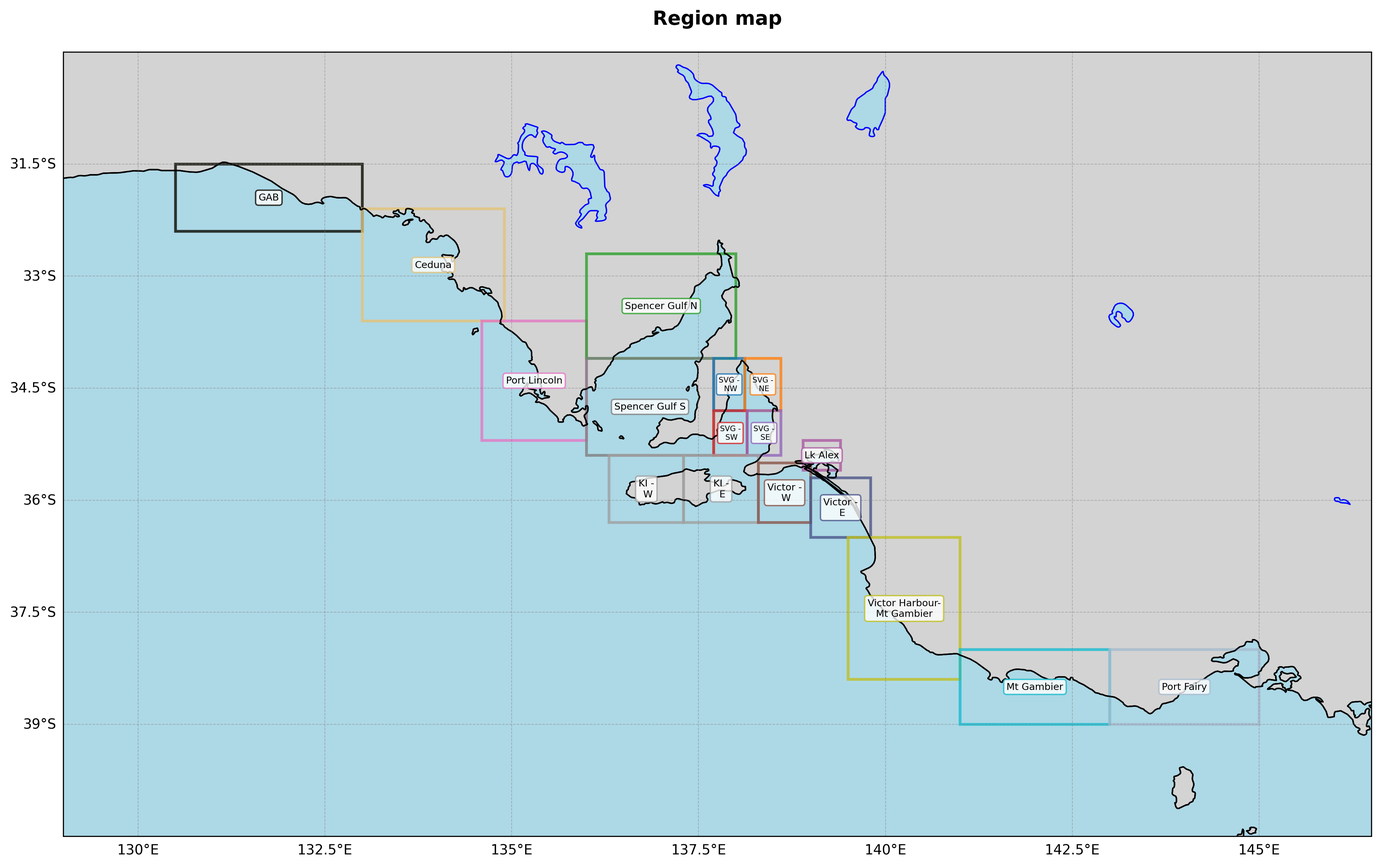
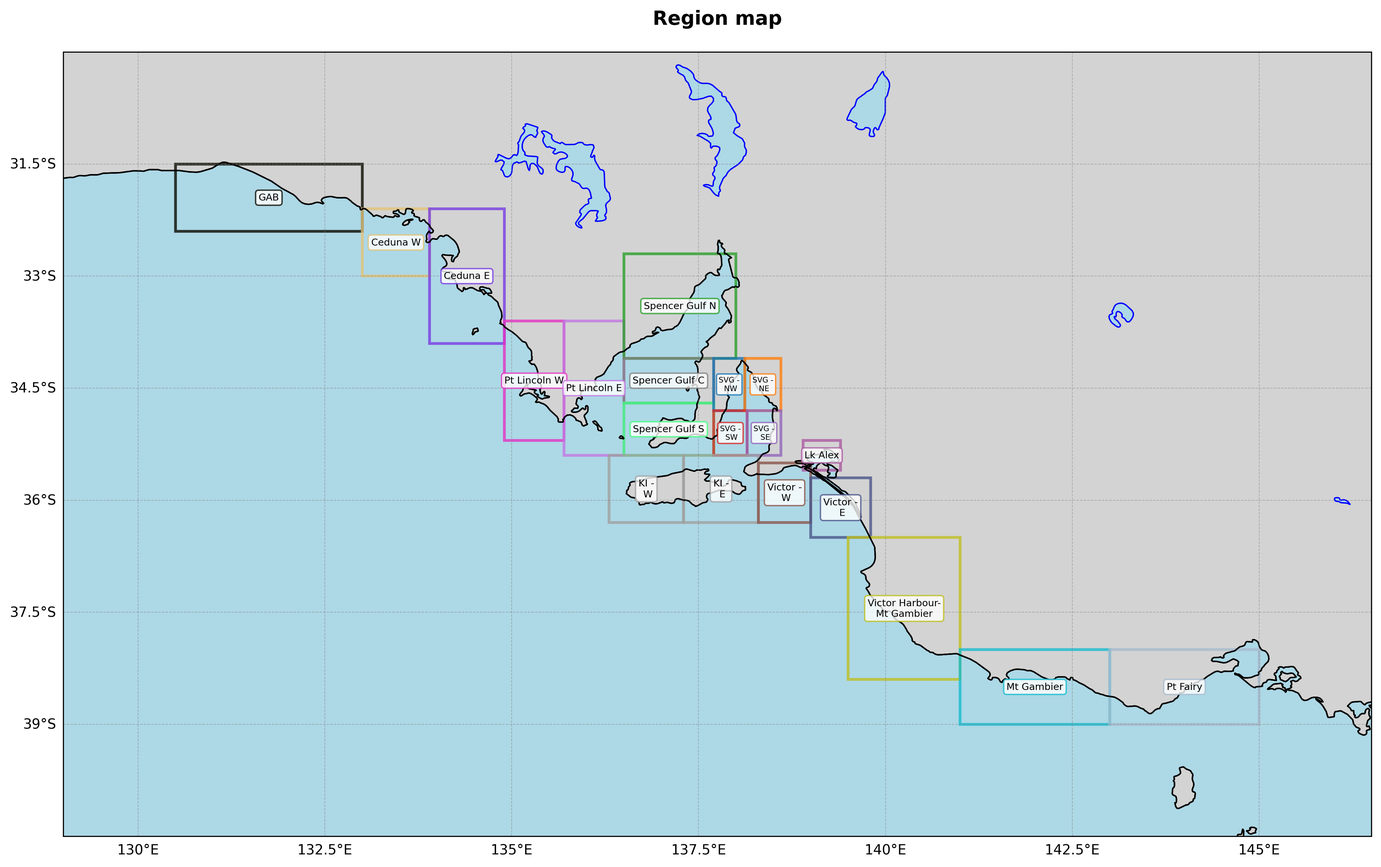
regenerated for new region boundaries

Changed region(s): [[0.2494, 0.2473, 0.53, 0.5256], [0.8417, 0.7729, 0.8729, 0.8038], [0.3118, 0.2164, 0.3429, 0.2473]]

diff --git a/viirs/viirs_plot.py b/viirs/viirs_plot.py
@@ -84,8 +84,7 @@ def normalize_series(series, method='minmax'):
     else:
         raise ValueError("Method must be 'minmax', 'zscore', or 'robust'")
 
-def create_plot(df, col, normalization_method='minmax', figsize=(16, 10),
-                fill_gaps=True, max_gap_days=10):
+def create_plot(df, col, max_gap_days, normalization_method='minmax', figsize=(16, 10), fill_gaps=True):
     """Create enhanced multi-axis plot with gap filling and actual value axes."""
     print(f"\n🎨 Creating visualization...")
 
@@ -236,6 +235,12 @@ def main():
         type=str,
         help='The column to plot'
     )
+    parser.add_argument(
+        '--max_gap_days',
+        type=int,
+        default=10,
+        help='Max Gap days'
+    )
     args = parser.parse_args()
 
     sst_filename = args.sst_filename
@@ -243,6 +248,7 @@ def main():
     start_date = args.start_date
     col = args.column_name
     output_folder = args.output_folder
+    print (f"📈 Max gaps = {args.max_gap_days}")
 
     df_sst = load_and_prepare_data(sst_filename, start_date, col)
     if df_sst is None:
@@ -260,7 +266,7 @@ def main():
     df = df_sst[['date', col]].merge(df_chl[['date', col]], on='date', suffixes=('_sst','_chlr_a'))
 
     # Create main time series plot
-    fig1, axes = create_plot(df, col, normalization_method='minmax')
+    fig1, axes = create_plot(df, col, args.max_gap_days, normalization_method='minmax')
     if fig1:
         # plt.show()
 

diff --git a/README.md b/README.md
@@ -1,9 +1,12 @@
 ## South Australian algal bloom investigation with VIIRS SST and Chlr-A data
 ![Regions](./study/sa/images/map.png)
 ![GAB](./study/sa/images/viirs_timeseries_GAB.png)
-![Ceduna](./study/sa/images/viirs_timeseries_Ceduna.png)
-![Port Lincoln](./study/sa/images/viirs_timeseries_PortLincoln.png)
+![Ceduna E](./study/sa/images/viirs_timeseries_CedunaE.png)
+![Ceduna W](./study/sa/images/viirs_timeseries_CedunaW.png)
+![Pt Lincoln E](./study/sa/images/viirs_timeseries_PtLincolnE.png)
+![Pt Lincoln W](./study/sa/images/viirs_timeseries_PtLincolnW.png)
 ![Spencer Gulf N](./study/sa/images/viirs_timeseries_SpencerGulfN.png)
+![Spencer Gulf C](./study/sa/images/viirs_timeseries_SpencerGulfC.png)
 ![Spencer Gulf E](./study/sa/images/viirs_timeseries_SpencerGulfS.png)
 ![SVG - NW](./study/sa/images/viirs_timeseries_SVGNW.png)
 ![SVG - NE](./study/sa/images/viirs_timeseries_SVGNE.png)
@@ -16,7 +19,7 @@
 ![Lk Alex](./study/sa/images/viirs_timeseries_LkAlex.png)
 ![Victor Harbour-Mt Gambier](./study/sa/images/viirs_timeseries_VictorHarbourMtGambier.png)
 ![Mt Gambier](./study/sa/images/viirs_timeseries_MtGambier.png)
-![Port Fairy](./study/sa/images/viirs_timeseries_PortFairy.png)
+![Pt Fairy](./study/sa/images/viirs_timeseries_PtFairy.png)
 ## Ocean thermal energy analysis
 - Mixed layer depth: 10.0m
 - Grid cell area: 0.5625 km²
@@ -36,64 +39,102 @@
       - 2025-01-09 to 2025-01-14: 5 days, mean 20.67°C (+0.66°C), max 21.30°C (+1.30°C)
       - 2025-01-16 to 2025-02-07: 16 days, mean 20.84°C (+0.84°C), max 21.85°C (+1.84°C)
 
-### Ceduna:
-  - SST: 16.99°C  |  Trend: -0.0901°C/yr (p=0.0000)
-  - Heating DD/yr: 455.5  |  Cooling DD/yr: 16.2
-  - MARINE HEAT WAVES DETECTED: 10 events (89 total days) 90th percentile threshold: 19.30°C
-      - 2018-01-18 to 2018-01-25: 6 days, mean 20.32°C (+1.01°C), max 21.25°C (+1.95°C)
-      - 2018-02-06 to 2018-02-14: 5 days, mean 20.29°C (+0.99°C), max 21.43°C (+2.13°C)
-      - 2018-04-19 to 2018-04-24: 5 days, mean 19.58°C (+0.27°C), max 19.65°C (+0.34°C)
-      - 2019-01-22 to 2019-02-04: 11 days, mean 20.26°C (+0.96°C), max 22.31°C (+3.01°C)
-      - 2019-02-23 to 2019-03-05: 7 days, mean 20.21°C (+0.90°C), max 20.90°C (+1.60°C)
-      - 2019-12-28 to 2020-01-03: 5 days, mean 20.17°C (+0.86°C), max 20.58°C (+1.27°C)
-      - 2020-01-27 to 2020-02-12: 11 days, mean 20.13°C (+0.83°C), max 21.84°C (+2.53°C)
-      - 2023-02-20 to 2023-02-25: 6 days, mean 20.47°C (+1.16°C), max 21.06°C (+1.76°C)
-      - 2025-01-07 to 2025-02-13: 27 days, mean 20.11°C (+0.81°C), max 21.58°C (+2.28°C)
-      - 2025-02-24 to 2025-03-23: 6 days, mean 20.04°C (+0.74°C), max 21.42°C (+2.11°C)
+### Ceduna W:
+  - SST: 17.07°C  |  Trend: -0.0859°C/yr (p=0.0001)
+  - Heating DD/yr: 403.2  |  Cooling DD/yr: 14.5
+  - MARINE HEAT WAVES DETECTED: 9 events (61 total days) 90th percentile threshold: 19.51°C
+      - 2018-01-18 to 2018-01-25: 5 days, mean 20.47°C (+0.97°C), max 21.49°C (+1.98°C)
+      - 2018-02-06 to 2018-02-17: 6 days, mean 20.40°C (+0.90°C), max 21.64°C (+2.13°C)
+      - 2019-01-27 to 2019-02-03: 6 days, mean 20.09°C (+0.58°C), max 20.83°C (+1.32°C)
+      - 2019-02-23 to 2019-03-01: 6 days, mean 20.62°C (+1.11°C), max 21.16°C (+1.65°C)
+      - 2019-12-28 to 2020-01-03: 5 days, mean 20.52°C (+1.01°C), max 21.03°C (+1.53°C)
+      - 2020-01-27 to 2020-02-12: 9 days, mean 20.51°C (+1.00°C), max 21.81°C (+2.30°C)
+      - 2023-02-19 to 2023-02-25: 6 days, mean 20.37°C (+0.86°C), max 21.04°C (+1.54°C)
+      - 2025-01-09 to 2025-01-14: 5 days, mean 19.93°C (+0.42°C), max 20.60°C (+1.09°C)
+      - 2025-01-16 to 2025-02-08: 13 days, mean 20.31°C (+0.80°C), max 22.38°C (+2.87°C)
 
-### Port Lincoln:
-  - SST: 16.51°C  |  Trend: -0.0973°C/yr (p=0.0000)
-  - Heating DD/yr: 338.3  |  Cooling DD/yr: 22.4
-  - MARINE HEAT WAVES DETECTED: 8 events (58 total days) 90th percentile threshold: 18.69°C
-      - 2018-01-16 to 2018-01-21: 5 days, mean 19.72°C (+1.04°C), max 21.02°C (+2.34°C)
-      - 2018-04-08 to 2018-04-12: 5 days, mean 19.25°C (+0.56°C), max 19.90°C (+1.21°C)
-      - 2018-04-17 to 2018-04-24: 7 days, mean 19.00°C (+0.31°C), max 19.40°C (+0.71°C)
-      - 2019-01-19 to 2019-01-30: 9 days, mean 19.87°C (+1.18°C), max 21.77°C (+3.08°C)
-      - 2019-02-23 to 2019-03-02: 6 days, mean 19.75°C (+1.06°C), max 20.62°C (+1.93°C)
-      - 2021-04-01 to 2021-04-07: 5 days, mean 19.02°C (+0.33°C), max 19.32°C (+0.63°C)
-      - 2023-02-20 to 2023-02-26: 6 days, mean 19.56°C (+0.87°C), max 20.30°C (+1.61°C)
-      - 2025-01-12 to 2025-02-03: 15 days, mean 19.71°C (+1.02°C), max 21.46°C (+2.77°C)
+### Ceduna E:
+  - SST: 16.64°C  |  Trend: -0.0973°C/yr (p=0.0000)
+  - Heating DD/yr: 361.7  |  Cooling DD/yr: 26.8
+  - MARINE HEAT WAVES DETECTED: 10 events (71 total days) 90th percentile threshold: 18.85°C
+      - 2018-01-18 to 2018-01-25: 6 days, mean 19.78°C (+0.93°C), max 20.77°C (+1.92°C)
+      - 2018-02-06 to 2018-02-15: 5 days, mean 19.52°C (+0.67°C), max 21.31°C (+2.46°C)
+      - 2018-04-19 to 2018-04-24: 5 days, mean 19.15°C (+0.30°C), max 19.45°C (+0.60°C)
+      - 2019-01-22 to 2019-02-04: 11 days, mean 19.86°C (+1.01°C), max 21.53°C (+2.68°C)
+      - 2019-02-23 to 2019-03-05: 8 days, mean 19.87°C (+1.03°C), max 20.75°C (+1.90°C)
+      - 2020-02-07 to 2020-02-15: 6 days, mean 19.83°C (+0.99°C), max 21.10°C (+2.25°C)
+      - 2023-02-20 to 2023-02-25: 5 days, mean 20.40°C (+1.55°C), max 21.79°C (+2.94°C)
+      - 2025-01-07 to 2025-01-27: 13 days, mean 19.70°C (+0.86°C), max 20.83°C (+1.98°C)
+      - 2025-02-01 to 2025-02-08: 6 days, mean 19.14°C (+0.30°C), max 19.59°C (+0.74°C)
+      - 2025-02-24 to 2025-03-24: 6 days, mean 19.23°C (+0.38°C), max 19.71°C (+0.86°C)
+
+### Pt Lincoln W:
+  - SST: 16.35°C  |  Trend: -0.0974°C/yr (p=0.0000)
+  - Heating DD/yr: 285.3  |  Cooling DD/yr: 25.5
+  - MARINE HEAT WAVES DETECTED: 8 events (58 total days) 90th percentile threshold: 18.44°C
+      - 2018-01-16 to 2018-01-21: 5 days, mean 19.60°C (+1.15°C), max 20.85°C (+2.40°C)
+      - 2018-04-08 to 2018-04-14: 5 days, mean 18.80°C (+0.36°C), max 19.05°C (+0.61°C)
+      - 2018-04-17 to 2018-04-24: 7 days, mean 18.85°C (+0.40°C), max 19.23°C (+0.78°C)
+      - 2019-01-19 to 2019-01-29: 7 days, mean 19.24°C (+0.79°C), max 20.40°C (+1.96°C)
+      - 2019-02-23 to 2019-03-02: 6 days, mean 19.41°C (+0.96°C), max 20.31°C (+1.86°C)
+      - 2021-04-01 to 2021-04-08: 6 days, mean 18.76°C (+0.32°C), max 19.15°C (+0.70°C)
+      - 2023-02-15 to 2023-02-26: 9 days, mean 19.15°C (+0.71°C), max 20.32°C (+1.88°C)
+      - 2025-01-12 to 2025-02-02: 13 days, mean 19.18°C (+0.74°C), max 20.39°C (+1.95°C)
+
+### Pt Lincoln E:
+  - SST: 16.80°C  |  Trend: -0.0845°C/yr (p=0.0010)
+  - Heating DD/yr: 385.8  |  Cooling DD/yr: 45.6
+  - MARINE HEAT WAVES DETECTED: 7 events (56 total days) 90th percentile threshold: 19.96°C
+      - 2018-02-05 to 2018-03-10: 16 days, mean 20.85°C (+0.89°C), max 22.52°C (+2.56°C)
+      - 2018-04-07 to 2018-04-12: 5 days, mean 20.34°C (+0.38°C), max 20.71°C (+0.75°C)
+      - 2019-01-22 to 2019-02-04: 11 days, mean 20.89°C (+0.93°C), max 22.08°C (+2.12°C)
+      - 2019-02-20 to 2019-03-03: 8 days, mean 21.34°C (+1.38°C), max 23.45°C (+3.49°C)
+      - 2020-02-07 to 2020-02-18: 5 days, mean 20.39°C (+0.44°C), max 20.99°C (+1.03°C)
+      - 2025-02-11 to 2025-02-18: 5 days, mean 21.59°C (+1.64°C), max 22.86°C (+2.90°C)
+      - 2025-02-22 to 2025-03-23: 6 days, mean 21.01°C (+1.05°C), max 22.88°C (+2.92°C)
 
 ### Spencer Gulf N:
-  - SST: 17.74°C  |  Trend: -0.0125°C/yr (p=0.7527)
-  - Heating DD/yr: 699.7  |  Cooling DD/yr: 114.2
-  - MARINE HEAT WAVES DETECTED: 12 events (89 total days) 90th percentile threshold: 22.61°C
-      - 2018-01-19 to 2018-01-26: 5 days, mean 24.01°C (+1.40°C), max 24.60°C (+1.99°C)
+  - SST: 17.74°C  |  Trend: -0.0124°C/yr (p=0.7545)
+  - Heating DD/yr: 699.3  |  Cooling DD/yr: 113.9
+  - MARINE HEAT WAVES DETECTED: 12 events (90 total days) 90th percentile threshold: 22.62°C
+      - 2018-01-19 to 2018-01-26: 5 days, mean 24.03°C (+1.41°C), max 24.62°C (+2.00°C)
       - 2018-02-05 to 2018-02-28: 11 days, mean 23.30°C (+0.68°C), max 25.58°C (+2.96°C)
-      - 2019-01-14 to 2019-01-30: 7 days, mean 23.58°C (+0.97°C), max 24.52°C (+1.91°C)
-      - 2019-02-02 to 2019-02-09: 6 days, mean 23.60°C (+0.99°C), max 24.33°C (+1.71°C)
-      - 2019-02-24 to 2019-03-03: 7 days, mean 23.85°C (+1.24°C), max 24.82°C (+2.21°C)
-      - 2019-03-07 to 2019-03-14: 5 days, mean 22.98°C (+0.36°C), max 23.19°C (+0.58°C)
-      - 2022-01-26 to 2022-02-02: 6 days, mean 23.71°C (+1.10°C), max 24.32°C (+1.70°C)
-      - 2023-01-12 to 2023-01-20: 6 days, mean 23.13°C (+0.52°C), max 24.05°C (+1.44°C)
-      - 2023-02-20 to 2023-02-26: 5 days, mean 23.83°C (+1.21°C), max 24.70°C (+2.09°C)
-      - 2024-02-18 to 2024-03-03: 10 days, mean 23.39°C (+0.77°C), max 23.93°C (+1.31°C)
-      - 2025-01-10 to 2025-01-29: 13 days, mean 23.57°C (+0.95°C), max 24.22°C (+1.61°C)
-      - 2025-02-06 to 2025-02-19: 8 days, mean 23.68°C (+1.07°C), max 24.76°C (+2.14°C)
+      - 2019-01-14 to 2019-01-30: 7 days, mean 23.59°C (+0.97°C), max 24.53°C (+1.90°C)
+      - 2019-02-02 to 2019-02-09: 6 days, mean 23.60°C (+0.98°C), max 24.33°C (+1.70°C)
+      - 2019-02-24 to 2019-03-03: 7 days, mean 23.85°C (+1.23°C), max 24.83°C (+2.21°C)
+      - 2022-01-26 to 2022-02-02: 6 days, mean 23.72°C (+1.10°C), max 24.32°C (+1.69°C)
+      - 2023-01-12 to 2023-01-20: 6 days, mean 23.14°C (+0.52°C), max 24.05°C (+1.43°C)
+      - 2023-02-20 to 2023-02-26: 5 days, mean 23.84°C (+1.21°C), max 24.72°C (+2.09°C)
+      - 2024-01-12 to 2024-01-25: 6 days, mean 23.29°C (+0.67°C), max 25.22°C (+2.59°C)
+      - 2024-02-18 to 2024-03-03: 10 days, mean 23.39°C (+0.77°C), max 23.95°C (+1.33°C)
+      - 2025-01-10 to 2025-01-29: 13 days, mean 23.57°C (+0.95°C), max 24.22°C (+1.60°C)
+      - 2025-02-06 to 2025-02-19: 8 days, mean 23.68°C (+1.06°C), max 24.76°C (+2.13°C)
+
+### Spencer Gulf C:
+  - SST: 17.26°C  |  Trend: -0.0489°C/yr (p=0.1557)
+  - Heating DD/yr: 518.5  |  Cooling DD/yr: 83.0
+  - MARINE HEAT WAVES DETECTED: 9 events (86 total days) 90th percentile threshold: 21.36°C
+      - 2018-01-19 to 2018-01-25: 5 days, mean 22.21°C (+0.85°C), max 23.16°C (+1.81°C)
+      - 2018-02-05 to 2018-02-28: 10 days, mean 21.95°C (+0.59°C), max 22.35°C (+0.99°C)
+      - 2018-03-04 to 2018-03-10: 5 days, mean 21.66°C (+0.31°C), max 22.02°C (+0.67°C)
+      - 2019-01-22 to 2019-02-12: 15 days, mean 22.07°C (+0.71°C), max 23.09°C (+1.74°C)
+      - 2019-02-20 to 2019-03-13: 13 days, mean 22.19°C (+0.84°C), max 23.30°C (+1.94°C)
+      - 2023-02-20 to 2023-02-26: 5 days, mean 22.24°C (+0.88°C), max 22.95°C (+1.59°C)
+      - 2024-02-08 to 2024-02-13: 5 days, mean 21.86°C (+0.50°C), max 22.33°C (+0.98°C)
+      - 2025-01-16 to 2025-02-03: 12 days, mean 22.36°C (+1.00°C), max 23.14°C (+1.78°C)
+      - 2025-02-06 to 2025-03-02: 16 days, mean 22.33°C (+0.98°C), max 23.82°C (+2.46°C)
 
 ### Spencer Gulf S:
-  - SST: 17.00°C  |  Trend: -0.0834°C/yr (p=0.0022)
-  - Heating DD/yr: 526.0  |  Cooling DD/yr: 74.6
-  - MARINE HEAT WAVES DETECTED: 9 events (79 total days) 90th percentile threshold: 20.65°C
-      - 2018-02-05 to 2018-02-15: 7 days, mean 21.36°C (+0.72°C), max 21.82°C (+1.17°C)
-      - 2018-02-17 to 2018-03-04: 8 days, mean 21.18°C (+0.54°C), max 21.50°C (+0.85°C)
-      - 2018-03-06 to 2018-03-19: 9 days, mean 21.19°C (+0.55°C), max 22.00°C (+1.35°C)
-      - 2019-01-28 to 2019-02-12: 11 days, mean 21.54°C (+0.89°C), max 22.55°C (+1.90°C)
-      - 2019-02-21 to 2019-03-05: 10 days, mean 21.86°C (+1.22°C), max 23.18°C (+2.54°C)
-      - 2020-02-10 to 2020-02-18: 5 days, mean 20.92°C (+0.28°C), max 21.19°C (+0.55°C)
-      - 2025-01-18 to 2025-02-03: 12 days, mean 21.76°C (+1.11°C), max 22.79°C (+2.15°C)
-      - 2025-02-06 to 2025-02-22: 12 days, mean 21.73°C (+1.09°C), max 23.26°C (+2.62°C)
-      - 2025-02-24 to 2025-03-23: 5 days, mean 21.52°C (+0.87°C), max 22.08°C (+1.44°C)
+  - SST: 16.86°C  |  Trend: -0.0746°C/yr (p=0.0082)
+  - Heating DD/yr: 419.6  |  Cooling DD/yr: 62.6
+  - MARINE HEAT WAVES DETECTED: 7 events (74 total days) 90th percentile threshold: 20.33°C
+      - 2018-01-19 to 2018-01-25: 5 days, mean 21.26°C (+0.93°C), max 22.27°C (+1.94°C)
+      - 2018-02-05 to 2018-02-15: 6 days, mean 21.07°C (+0.74°C), max 21.81°C (+1.48°C)
+      - 2018-02-17 to 2018-03-06: 10 days, mean 20.81°C (+0.48°C), max 21.55°C (+1.22°C)
+      - 2019-01-22 to 2019-02-10: 13 days, mean 21.19°C (+0.86°C), max 22.19°C (+1.86°C)
+      - 2019-02-21 to 2019-03-07: 11 days, mean 21.45°C (+1.12°C), max 22.40°C (+2.07°C)
+      - 2025-01-18 to 2025-02-19: 23 days, mean 21.50°C (+1.17°C), max 22.70°C (+2.37°C)
+      - 2025-02-24 to 2025-03-24: 6 days, mean 20.89°C (+0.56°C), max 21.54°C (+1.21°C)
 
 ### SVG - NW:
   - SST: 17.36°C  |  Trend: -0.0573°C/yr (p=0.2323)
@@ -221,7 +262,7 @@
       - 2025-01-11 to 2025-02-12: 13 days, mean 18.58°C (+0.94°C), max 19.81°C (+2.17°C)
       - 2025-03-01 to 2025-03-29: 7 days, mean 17.88°C (+0.24°C), max 18.09°C (+0.45°C)
 
-### Port Fairy:
+### Pt Fairy:
   - SST: 15.46°C  |  Trend: -0.0443°C/yr (p=0.0956)
   - Heating DD/yr: 253.9  |  Cooling DD/yr: 161.5
   - MARINE HEAT WAVES DETECTED: 8 events (71 total days) 90th percentile threshold: 18.81°C
@@ -238,40 +279,41 @@
 
 ### Yearly mean values (chlr-a)
 ```
-| Group      |      GAB |   Ceduna |   Port Lincoln |   Spencer Gulf N |   Spencer Gulf S |   SVG - NW |   SVG - NE |   SVG - SW |   SVG - SE |   KI - W |   KI - E |   Victor - W |   Victor - E |   Lk Alex |   Victor Harbour-Mt Gambier |   Mt Gambier |   Port Fairy |
-|:-----------|---------:|---------:|---------------:|-----------------:|-----------------:|-----------:|-----------:|-----------:|-----------:|---------:|---------:|-------------:|-------------:|----------:|----------------------------:|-------------:|-------------:|
-| 2012       | 0.395075 | 0.608612 |       0.392165 |          2.09321 |         0.501355 |    2.37877 |    4.18012 |   0.711444 |   0.742047 | 0.282815 | 0.540881 |     0.585828 |     0.682859 |  nan      |                    0.467531 |     0.332491 |     0.784586 |
-| 2013       | 0.47089  | 0.665381 |       0.396056 |          2.33228 |         0.572121 |    2.75805 |    4.55311 |   0.792129 |   0.87921  | 0.289305 | 0.555602 |     0.444416 |     0.51717  |   10.7002 |                    0.447544 |     0.315183 |     0.730188 |
-| 2014       | 0.359467 | 0.712754 |       0.485392 |          2.25381 |         0.544774 |    2.58515 |    4.72018 |   0.785615 |   0.730013 | 0.333831 | 0.606861 |     0.470669 |     0.617708 |  nan      |                    0.520572 |     0.301768 |     0.653584 |
-| 2015       | 0.411298 | 0.628808 |       0.39525  |          2.12494 |         0.525064 |    2.6436  |    4.38201 |   0.733837 |   0.762453 | 0.274865 | 0.483314 |     0.401176 |     0.461531 |   17.4811 |                    0.421543 |     0.288988 |     0.608774 |
-| 2016       | 0.443817 | 0.753491 |       0.518742 |          2.24393 |         0.588852 |    2.54825 |    4.1554  |   0.849325 |   0.94727  | 0.325527 | 0.572719 |     0.487797 |     0.679808 |   20.1369 |                    0.607691 |     0.350283 |     0.74683  |
-| 2017       | 0.42148  | 0.696296 |       0.416969 |          2.15074 |         0.516727 |    2.55451 |    3.80648 |   0.758223 |   0.804488 | 0.294448 | 0.562252 |     0.505473 |     0.511924 |   24.6263 |                    0.440204 |     0.317932 |     0.765035 |
-| 2018       | 0.374212 | 0.584995 |       0.354884 |          1.91313 |         0.492898 |    2.14749 |    3.28013 |   0.712456 |   0.764651 | 0.269927 | 0.522626 |     0.395696 |     0.464363 |   23.5477 |                    0.387717 |     0.288127 |     0.581171 |
-| 2019       | 0.375582 | 0.618444 |       0.409259 |          1.99953 |         0.514244 |    2.25286 |    3.86962 |   0.683958 |   0.703383 | 0.279634 | 0.477494 |     0.357414 |     0.427743 |   23.8018 |                    0.391544 |     0.277845 |     0.612534 |
-| 2020       | 0.427576 | 0.709789 |       0.448786 |          2.03964 |         0.502118 |    2.48055 |    4.08964 |   0.664259 |   0.693749 | 0.297335 | 0.495834 |     0.385115 |     0.49843  |   19.7804 |                    0.52211  |     0.395027 |     0.695104 |
-| 2021       | 0.334956 | 0.550345 |       0.387701 |          1.74465 |         0.478702 |    2.19237 |    3.42195 |   0.614813 |   0.610256 | 0.275859 | 0.483064 |     0.385236 |     0.507113 |   16.2773 |                    0.43047  |     0.300323 |     0.702936 |
-| 2022       | 0.357808 | 0.590323 |       0.356635 |          1.95371 |         0.496317 |    2.24708 |    3.66757 |   0.60951  |   0.656991 | 0.279882 | 0.484602 |     0.576381 |     0.680898 |  nan      |                    0.461897 |     0.340982 |     0.791325 |
-| 2023       | 0.366831 | 0.604423 |       0.433546 |          1.9394  |         0.544259 |    2.38479 |    3.63854 |   0.831204 |   0.755583 | 0.333343 | 0.678843 |     0.828327 |     0.792582 |  nan      |                    0.513577 |     0.286142 |     0.680048 |
-| 2024Q1     | 0.454326 | 1.28906  |       1.86361  |          2.18012 |         0.678987 |    2.63438 |    3.39618 |   0.724994 |   0.694829 | 0.716583 | 0.786435 |     0.527562 |     1.08412  |   30.723  |                    1.55208  |     0.463185 |     0.816965 |
-| 2024Q2     | 1.3662   | 1.61362  |       1.20199  |          2.07073 |         0.824375 |    2.3182  |    3.31705 |   0.878533 |   0.797009 | 0.476847 | 0.960647 |     1.14717  |     1.30647  |   32.9429 |                    0.706783 |     0.391611 |     0.837316 |
-| 2024Q3     | 0.483385 | 1.16757  |       0.750769 |          1.80058 |         0.739266 |    1.69659 |    3.89979 |   0.74611  |   0.717173 | 0.410024 | 0.763577 |     0.830555 |     1.12464  |   27.4474 |                    0.674633 |     0.379422 |     1.05563  |
-| 2024Q4     | 0.311394 | 0.577865 |       0.357265 |          1.5184  |         0.421747 |    2.0938  |    3.1447  |   0.562048 |   0.463881 | 0.234204 | 0.476275 |     0.39694  |     0.608052 |  nan      |                    0.422824 |     0.294721 |     0.622021 |
-| 2025Q1     | 0.376193 | 0.588731 |       0.395249 |          2.21098 |         0.550462 |    2.69539 |    3.32973 |   0.824022 |   0.692935 | 0.297852 | 0.673126 |     0.466324 |     0.501428 |  nan      |                    0.472143 |     0.271055 |     0.634368 |
-| 2025Q2     | 0.586443 | 0.789978 |       0.562833 |          2.18851 |         1.02882  |    4.36114 |    4.38811 |   2.59219  |   1.40029  | 0.656925 | 1.32357  |     0.917269 |     0.95639  |   21.0486 |                    0.566423 |     0.367223 |     0.921352 |
-| 2025Q3     | 0.343732 | 0.623273 |       0.457752 |          2.84799 |         0.654595 |   13.2696  |   11.8667  |   2.27952  |   3.32532  | 0.319275 | 0.649195 |     0.571924 |     0.630484 |  nan      |                    0.419024 |     0.343666 |     0.627906 |
-| 2025Q4     | 0.285594 | 0.42834  |       0.256883 |          2.30785 |         0.450586 |    4.52746 |    5.29383 |   0.957656 |   1.26867  | 0.231938 | 0.488529 |     0.378762 |     0.442039 |  nan      |                    0.341309 |     0.28596  |     0.433947 |
-| 2026Q1     | 0.367615 | 0.63756  |       0.558256 |          2.55655 |         0.666495 |    2.4988  |    3.03735 |   0.762023 |   0.677932 | 0.435135 | 0.653237 |     0.44506  |     0.374268 |  nan      |                    0.46914  |     0.258508 |     0.461609 |
-| Grand Mean | 0.416176 | 0.698469 |       0.482018 |          2.09997 |         0.571801 |    2.74139 |    4.04919 |   0.830075 |   0.821245 | 0.331657 | 0.607324 |     0.517925 |     0.62153  |   21.5059 |                    0.503765 |     0.322694 |     0.689167 |
+| Group      |      GAB |   Ceduna W |   Ceduna E |   Pt Lincoln W |   Pt Lincoln E |   Spencer Gulf N |   Spencer Gulf C |   Spencer Gulf S |   SVG - NW |   SVG - NE |   SVG - SW |   SVG - SE |   KI - W |   KI - E |   Victor - W |   Victor - E |   Lk Alex |   Victor Harbour-Mt Gambier |   Mt Gambier |   Pt Fairy |
+|:-----------|---------:|-----------:|-----------:|---------------:|---------------:|-----------------:|-----------------:|-----------------:|-----------:|-----------:|-----------:|-----------:|---------:|---------:|-------------:|-------------:|----------:|----------------------------:|-------------:|-----------:|
+| 2012       | 0.395075 |   0.704127 |   0.62447  |       0.424389 |       0.479383 |          2.09308 |         0.526196 |         0.512825 |    2.37877 |    4.18012 |   0.711444 |   0.742047 | 0.282815 | 0.540881 |     0.585828 |     0.682859 |  nan      |                    0.467531 |     0.332491 |   0.784586 |
+| 2013       | 0.47089  |   0.775856 |   0.706796 |       0.437607 |       0.490458 |          2.33492 |         0.611009 |         0.608825 |    2.75805 |    4.55311 |   0.792129 |   0.87921  | 0.289305 | 0.555602 |     0.444416 |     0.51717  |   10.7002 |                    0.447544 |     0.315183 |   0.730188 |
+| 2014       | 0.359467 |   0.786139 |   0.809266 |       0.555249 |       0.529739 |          2.25154 |         0.528562 |         0.583451 |    2.58515 |    4.72018 |   0.785615 |   0.730013 | 0.333831 | 0.606861 |     0.470669 |     0.617708 |  nan      |                    0.520572 |     0.301768 |   0.653584 |
+| 2017       | 0.420358 |   0.719711 |   0.750979 |       0.472473 |       0.477375 |          2.16509 |         0.55729  |         0.553885 |    2.55451 |    3.80648 |   0.758223 |   0.804488 | 0.294448 | 0.562252 |     0.505473 |     0.511924 |   24.6263 |                    0.440204 |     0.317932 |   0.765035 |
+| 2018       | 0.374212 |   0.676656 |   0.616501 |       0.393879 |       0.416414 |          1.93521 |         0.548518 |         0.505213 |    2.14749 |    3.28013 |   0.712456 |   0.764651 | 0.269927 | 0.522626 |     0.394739 |     0.463087 |   23.5477 |                    0.387717 |     0.288127 |   0.581171 |
+| 2019       | 0.375582 |   0.691767 |   0.633042 |       0.451581 |       0.484225 |          2.00372 |         0.560138 |         0.499253 |    2.25286 |    3.86962 |   0.683958 |   0.703383 | 0.279634 | 0.477494 |     0.358079 |     0.428672 |   23.8018 |                    0.391544 |     0.277845 |   0.612534 |
+| 2020       | 0.427576 |   0.775579 |   0.724257 |       0.493186 |       0.476527 |          2.04482 |         0.530192 |         0.50209  |    2.48055 |    4.08964 |   0.664259 |   0.693749 | 0.297335 | 0.495834 |     0.384684 |     0.497005 |   19.7804 |                    0.52211  |     0.395027 |   0.695104 |
+| 2021       | 0.334956 |   0.597513 |   0.581799 |       0.446657 |       0.433315 |          1.74886 |         0.5243   |         0.488959 |    2.19237 |    3.42195 |   0.614813 |   0.610256 | 0.275859 | 0.483064 |     0.385646 |     0.50852  |   16.2773 |                    0.43047  |     0.300323 |   0.702936 |
+| 2022       | 0.357808 |   0.671229 |   0.603623 |       0.389092 |       0.450971 |          1.96852 |         0.531655 |         0.529475 |    2.24708 |    3.66757 |   0.60951  |   0.656991 | 0.279882 | 0.484602 |     0.581118 |     0.678748 |  nan      |                    0.461897 |     0.340982 |   0.791325 |
+| 2023       | 0.366831 |   0.693477 |   0.628672 |       0.459894 |       0.509031 |          1.94362 |         0.547301 |         0.597199 |    2.38479 |    3.63854 |   0.831204 |   0.755583 | 0.333343 | 0.678843 |     0.82325  |     0.795522 |  nan      |                    0.513577 |     0.286142 |   0.680048 |
+| 2024Q1     | 0.454326 |   1.15619  |   1.81511  |       2.28553  |       0.770145 |          2.1871  |         0.581775 |         0.794668 |    2.63438 |    3.39618 |   0.724994 |   0.694829 | 0.716583 | 0.786435 |     0.532364 |     1.09447  |   30.723  |                    1.55208  |     0.463185 |   0.816965 |
+| 2024Q2     | 1.3662   |   1.82643  |   1.88289  |       1.34329  |       0.859269 |          2.07278 |         0.751773 |         0.864611 |    2.3182  |    3.31705 |   0.878533 |   0.797009 | 0.476847 | 0.960647 |     1.13285  |     1.28257  |   32.9429 |                    0.706783 |     0.391611 |   0.837316 |
+| 2024Q3     | 0.483385 |   1.15536  |   1.35677  |       0.842483 |       0.683304 |          1.80349 |         0.655805 |         0.902387 |    1.69659 |    3.89979 |   0.74611  |   0.717173 | 0.410024 | 0.763577 |     0.837046 |     1.14057  |   27.4474 |                    0.674633 |     0.379422 |   1.05563  |
+| 2024Q4     | 0.311394 |   0.696075 |   0.593906 |       0.405704 |       0.373535 |          1.52252 |         0.422686 |         0.466826 |    2.0938  |    3.1447  |   0.562048 |   0.463881 | 0.234204 | 0.476275 |     0.390396 |     0.595555 |  nan      |                    0.422824 |     0.294721 |   0.622021 |
+| 2025Q1     | 0.376193 |   0.712626 |   0.604254 |       0.432756 |       0.536578 |          2.21596 |         0.580119 |         0.591788 |    2.69539 |    3.32973 |   0.824022 |   0.692935 | 0.297852 | 0.673126 |     0.474917 |     0.505771 |  nan      |                    0.472143 |     0.271055 |   0.634368 |
+| 2025Q2     | 0.586443 |   0.91306  |   0.768801 |       0.590395 |       0.810694 |          2.18309 |         0.84232  |         1.24034  |    4.36114 |    4.38811 |   2.59219  |   1.40029  | 0.656925 | 1.32357  |     0.91589  |     0.962905 |   21.0486 |                    0.566423 |     0.367223 |   0.921352 |
+| 2025Q3     | 0.343732 |   0.637652 |   0.699562 |       0.476294 |       0.757779 |          2.77171 |         0.651085 |         0.589823 |   13.2696  |   11.8667  |   2.27952  |   3.32532  | 0.319275 | 0.649195 |     0.56203  |     0.614875 |  nan      |                    0.419024 |     0.343666 |   0.627906 |
+| 2025Q4     | 0.285594 |   0.519815 |   0.431246 |       0.288273 |       0.339615 |          2.32145 |         0.527534 |         0.489277 |    4.52746 |    5.29383 |   0.957656 |   1.26867  | 0.231938 | 0.488529 |     0.378762 |     0.442039 |  nan      |                    0.341309 |     0.28596  |   0.433947 |
+| 2026Q1     | 0.367615 |   0.768359 |   0.698767 |       0.661008 |       0.632367 |          2.56882 |         0.609019 |         0.903001 |    2.4988  |    3.03735 |   0.762023 |   0.677932 | 0.435135 | 0.653237 |     0.44506  |     0.374268 |  nan      |                    0.46914  |     0.258508 |   0.461609 |
+| Grand Mean | 0.414969 |   0.77942  |   0.75259  |       0.540277 |       0.534577 |          2.09429 |         0.577177 |         0.61876  |    2.75722 |    4.0269  |   0.834469 |   0.81829  | 0.33528  | 0.616569 |     0.526272 |     0.627531 |   22.101  |                    0.503517 |     0.323175 |   0.690753 |
 ```
 
 ## VIIRS Pixel Coverage Summary
 ```
 
 GAB {'lat_km': 100.18799999999983, 'lon_km': 236.14039282935244, 'area_km2': 23658.43367678712, 'expected_pixels': 1478.652104799195}
-Ceduna {'lat_km': 166.98, 'lon_km': 177.6865073980579, 'area_km2': 29670.093005327704, 'expected_pixels': 1854.3808128329815}
-Port Lincoln {'lat_km': 178.11200000000014, 'lon_km': 128.59228847967626, 'area_km2': 22903.829685692115, 'expected_pixels': 1431.4893553557572}
-Spencer Gulf N {'lat_km': 155.84799999999984, 'lon_km': 185.8705282769648, 'area_km2': 28967.55009090838, 'expected_pixels': 1810.4718806817737}
-Spencer Gulf S {'lat_km': 144.71599999999967, 'lon_km': 155.49175312392578, 'area_km2': 22502.144545081992, 'expected_pixels': 1406.3840340676245}
+Ceduna W {'lat_km': 100.18799999999983, 'lon_km': 84.45069361866571, 'area_km2': 8460.946092266866, 'expected_pixels': 528.8091307666791}
+Ceduna E {'lat_km': 200.37599999999966, 'lon_km': 93.3608076236846, 'area_km2': 18707.26518840339, 'expected_pixels': 1169.204074275212}
+Pt Lincoln W {'lat_km': 178.11200000000014, 'lon_km': 73.48130770267028, 'area_km2': 13087.902677538019, 'expected_pixels': 817.9939173461262}
+Pt Lincoln E {'lat_km': 200.37599999999966, 'lon_km': 73.39338185392326, 'area_km2': 14706.272282361702, 'expected_pixels': 919.1420176476064}
+Spencer Gulf N {'lat_km': 155.84799999999984, 'lon_km': 139.4028962077236, 'area_km2': 21725.662568181284, 'expected_pixels': 1357.8539105113302}
+Spencer Gulf C {'lat_km': 66.79200000000016, 'lon_km': 110.22196155400673, 'area_km2': 7361.945256115235, 'expected_pixels': 460.1215785072022}
+Spencer Gulf S {'lat_km': 77.92399999999952, 'lon_km': 109.35870090910547, 'area_km2': 8521.667409641082, 'expected_pixels': 532.6042131025677}
 SVG - NW {'lat_km': 77.92399999999952, 'lon_km': 38.55462068911782, 'area_km2': 3004.3302625787987, 'expected_pixels': 187.77064141117492}
 SVG - NE {'lat_km': 77.92399999999952, 'lon_km': 44.062423644703465, 'area_km2': 3433.520300089852, 'expected_pixels': 214.59501875561574}
 SVG - SW {'lat_km': 66.79200000000016, 'lon_km': 40.98439194469068, 'area_km2': 2737.4295067697863, 'expected_pixels': 171.08934417311164}
@@ -283,7 +325,7 @@ Victor - E {'lat_km': 89.05599999999968, 'lon_km': 71.95634710042403, 'area_km2'
 Lk Alex {'lat_km': 44.52799999999984, 'lon_km': 45.37001311025132, 'area_km2': 2020.2359437732637, 'expected_pixels': 126.26474648582898}
 Victor Harbour-Mt Gambier {'lat_km': 211.50799999999984, 'lon_km': 132.56279752558572, 'area_km2': 28038.092179041563, 'expected_pixels': 1752.3807611900977}
 Mt Gambier {'lat_km': 111.32, 'lon_km': 174.23988004162143, 'area_km2': 19396.383446233296, 'expected_pixels': 1212.273965389581}
-Port Fairy {'lat_km': 111.32, 'lon_km': 174.23988004162143, 'area_km2': 19396.383446233296, 'expected_pixels': 1212.273965389581}
+Pt Fairy {'lat_km': 111.32, 'lon_km': 174.23988004162143, 'area_km2': 19396.383446233296, 'expected_pixels': 1212.273965389581}
 
 ```
 
@@ -347,6 +389,11 @@ Algae need nutrients (primarily nitrogen and phosphorus) to grow. Excessive nutr
 - Definitive source apportionment
 - For details, see: https://pubmed.ncbi.nlm.nih.gov/23602260/
 
+### Lake Alexandrina
+
+- Refer to the "Chlorophyll-a Time Series Viewer" for an alternative visualisation
+- This uses a merged dataset from two satellites (still VIIRS, but NRT) for improved gap filling
+- Or just drive down Point Sturt road and see for yourself :)
 
 ---
-Last updated: Fri 27 Feb 2026 18:00:53 ACDT
+Last updated: Sun 15 Mar 2026 08:19:18 ACDT

diff --git a/study/sa/NOTES.md b/study/sa/NOTES.md
@@ -58,3 +58,8 @@ Algae need nutrients (primarily nitrogen and phosphorus) to grow. Excessive nutr
 - Definitive source apportionment
 - For details, see: https://pubmed.ncbi.nlm.nih.gov/23602260/
 
+### Lake Alexandrina
+
+- Refer to the "Chlorophyll-a Time Series Viewer" for an alternative visualisation
+- This uses a merged dataset from two satellites (still VIIRS, but NRT) for improved gap filling
+- Or just drive down Point Sturt road and see for yourself :)
